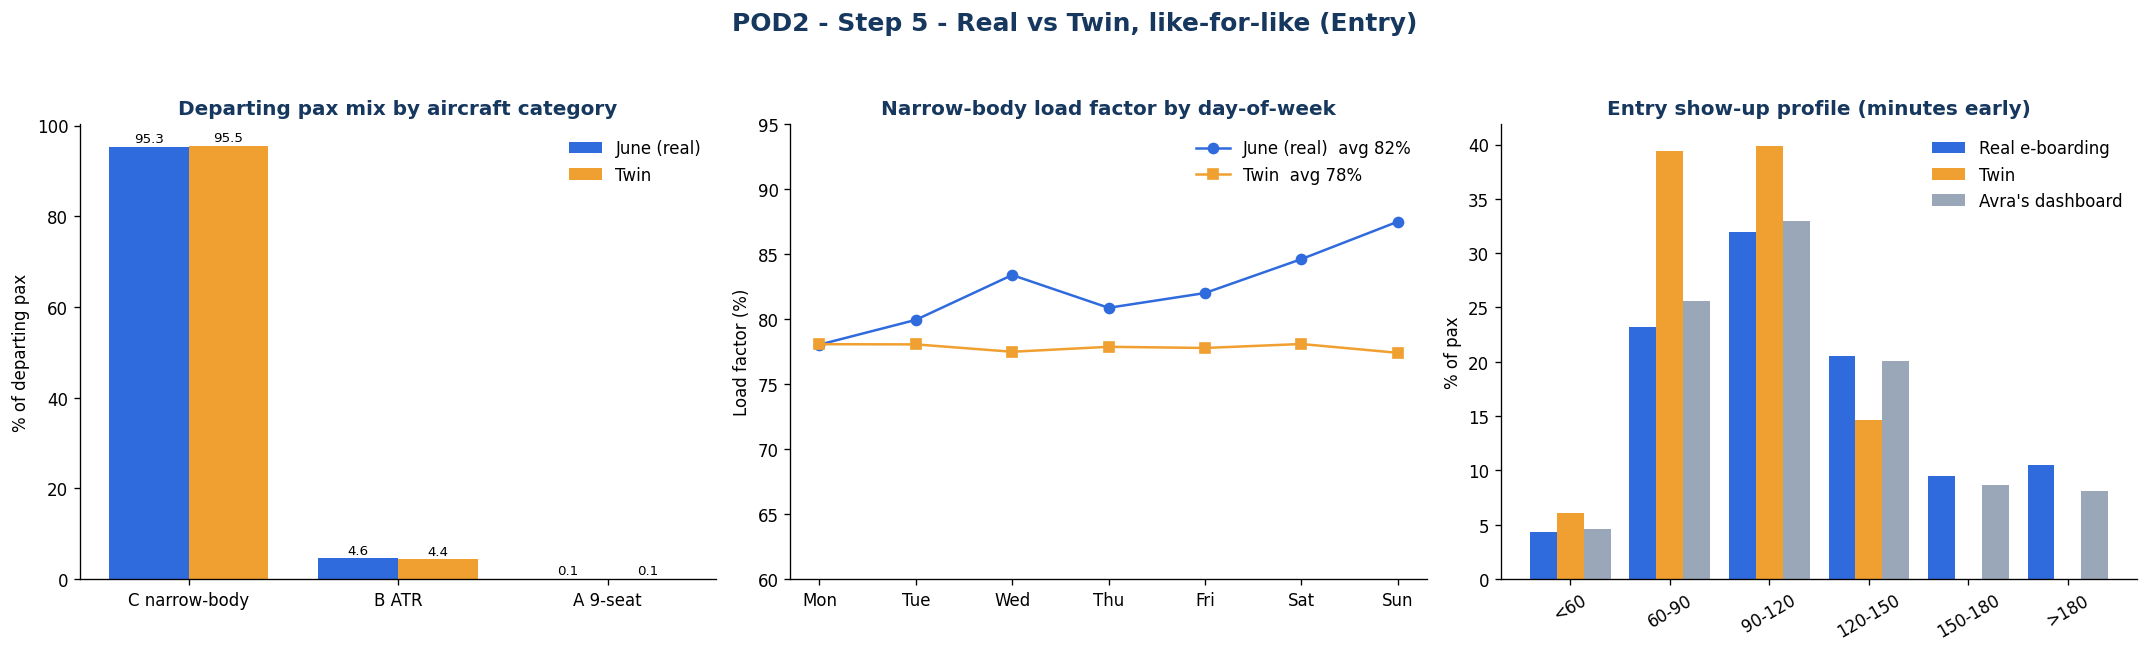
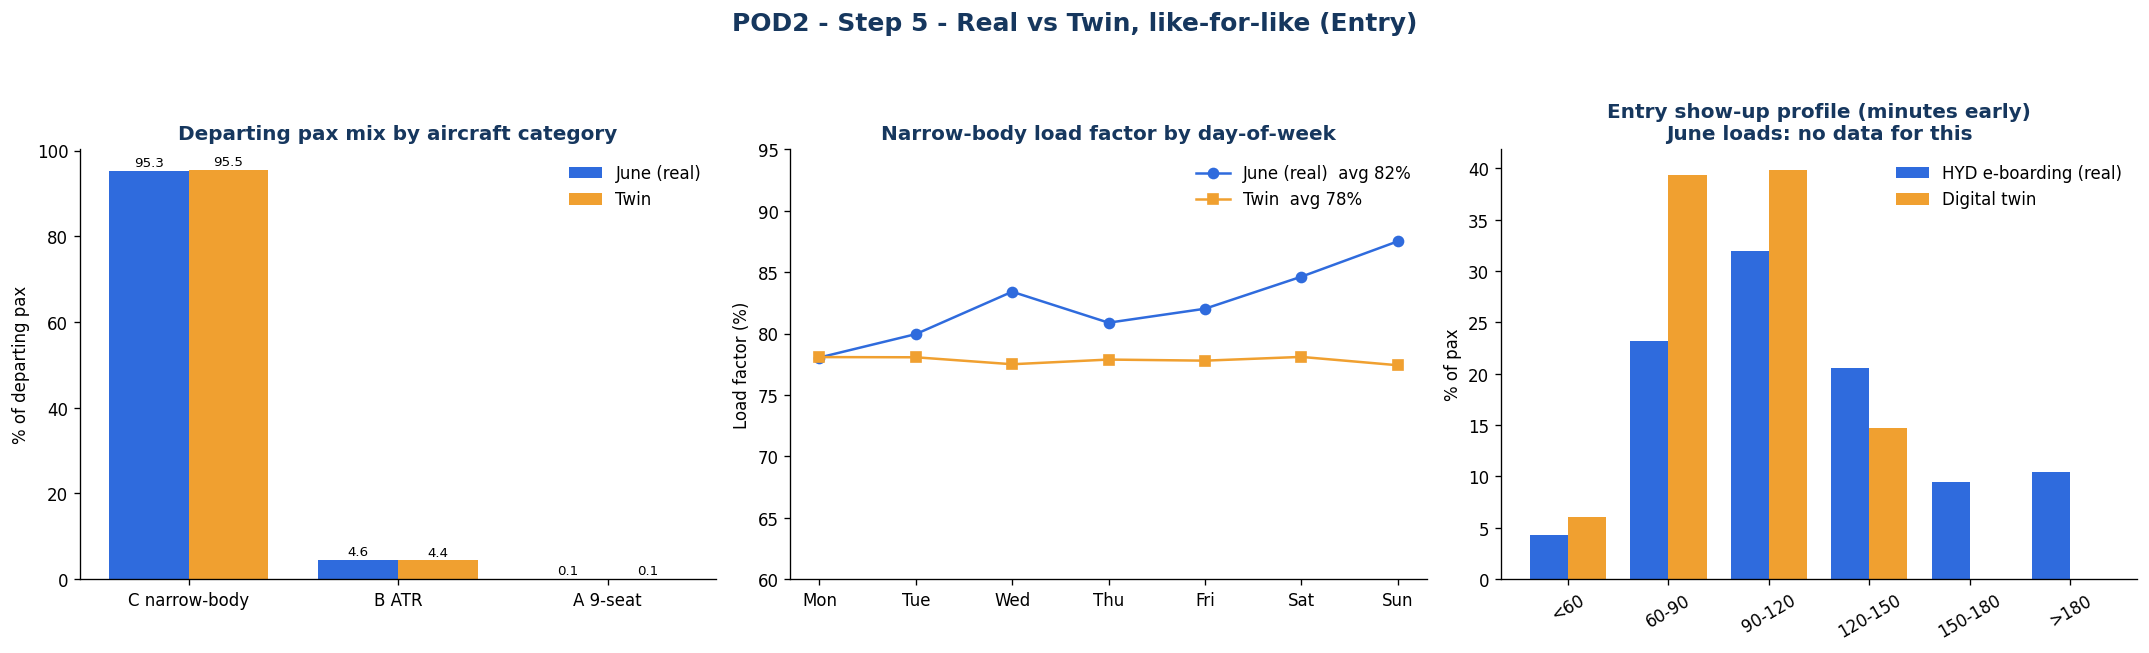
POD2 Step 5 fix: 3-dataset comparison only; June absent from Entry show-up
Two corrections:
- Avra's dashboard is a STYLE template, not a POD dataset - removed it as a
  comparison series. Comparison is strictly June loads / HYD e-boarding / twin.
- June loads has no scan times / per-pax rows / time-of-day, so it cannot join the
  Entry show-up (minutes-early) comparison at all - that comparison is two-way,
  HYD e-boarding (real) vs twin. June only contributes the volume + load-factor input.

Added a "which dataset can speak to which Entry dimension" matrix to COMPARISON.md
and relabelled the show-up panel "June loads: no data for this".

diff --git a/POD2/step5_comparison/compare_datasets.py b/POD2/step5_comparison/compare_datasets.py
@@ -45,7 +45,10 @@ def read_profile(path):
 
 real_prof = read_profile(os.path.join(ROOT, 'step3_ews_eboarding', 'entry_showup_profile.csv'))
 twin_prof = read_profile(os.path.join(ROOT, 'step4_twin_entry', 'twin_entry_showup_profile.csv'))
-avra_prof = {'<60': 4.65, '60-90': 25.59, '90-120': 32.99, '120-150': 20.04, '150-180': 8.63, '>180': 8.11}
+# NOTE: Avra's dashboard is only a STYLE template for how analysis should look - it is
+# NOT a POD dataset, so it is deliberately NOT a comparison series here. The real Entry
+# show-up comparison is two-way: HYD e-boarding (real) vs digital twin (modelled).
+# June loads has no scan times, so it cannot participate in the show-up comparison at all.
 
 
 def june_layers():
@@ -106,14 +109,14 @@ def main():
     ax[1].plot(DOW, [tdow.get(d, 0) for d in DOW], marker='s', color=AMBER, label=f'Twin  avg {tlfC:.0f}%')
     ax[1].set_title('Narrow-body load factor by day-of-week', fontweight='bold', color=DK)
     ax[1].set_ylabel('Load factor (%)'); ax[1].set_ylim(60, 95)
-    ax[1].set_xticklabels([d[:3] for d in DOW]); ax[1].legend(frameon=False)
+    ax[1].set_xticks(range(len(DOW))); ax[1].set_xticklabels([d[:3] for d in DOW]); ax[1].legend(frameon=False)
 
-    # panel 3: show-up profile (real e-boarding vs twin vs Avra)
-    xb = range(len(BUCKETS)); w2 = 0.27
-    ax[2].bar([i - w2 for i in xb], [real_prof[b] for b in BUCKETS], w2, label='Real e-boarding', color=BLUE)
-    ax[2].bar([i for i in xb], [twin_prof[b] for b in BUCKETS], w2, label='Twin', color=AMBER)
-    ax[2].bar([i + w2 for i in xb], [avra_prof[b] for b in BUCKETS], w2, label="Avra's dashboard", color=GREY)
-    ax[2].set_title('Entry show-up profile (minutes early)', fontweight='bold', color=DK)
+    # panel 3: show-up profile - two-way, HYD e-boarding (real) vs twin.
+    # June loads is absent here on purpose: it has no scan times to build a show-up %.
+    xb = range(len(BUCKETS)); w2 = 0.38
+    ax[2].bar([i - w2/2 for i in xb], [real_prof[b] for b in BUCKETS], w2, label='HYD e-boarding (real)', color=BLUE)
+    ax[2].bar([i + w2/2 for i in xb], [twin_prof[b] for b in BUCKETS], w2, label='Digital twin', color=AMBER)
+    ax[2].set_title('Entry show-up profile (minutes early)\nJune loads: no data for this', fontweight='bold', color=DK)
     ax[2].set_xticks(list(xb)); ax[2].set_xticklabels(BUCKETS, rotation=30); ax[2].set_ylabel('% of pax')
     ax[2].legend(frameon=False)
 

diff --git a/POD2/step5_comparison/COMPARISON.md b/POD2/step5_comparison/COMPARISON.md
@@ -1,17 +1,38 @@
 # POD2 · Step 5 — Cross-dataset comparison (Entry) & the formula-column plan
 
-We put the three datasets side by side on the **same** dimensions (see
-`comparison_dashboard.png`, numbers in `comparison_summary.csv`). Avra's construct is
-three layers; each dataset owns one, and the twin is meant to reproduce two of them.
+The comparison is strictly between the three POD datasets: **June loads ↔ HYD
+e-boarding ↔ digital twin** (see `comparison_dashboard.png`, numbers in
+`comparison_summary.csv`).
+
+> **Note:** Avra's dashboard is only a **style template** for how the analysis should
+> *look* — it is not a POD dataset, so it is **not** used as a comparison series
+> anywhere here.
+
+## First, which dataset can even speak to each Entry dimension?
+Not every dataset has the columns for every dimension. For **Entry** specifically:
+
+| Dimension | June loads | HYD e-boarding | Digital twin |
+|---|---|---|---|
+| Passenger volume | ✅ real (daily) | ⚠ real, 2 days only | ✅ modelled |
+| Load factor | ✅ real | ❌ no seat/LF field | ✅ modelled |
+| Aircraft mix | ✅ real | ~ per-flight | ✅ modelled |
+| **Entry show-up profile** (minutes early) | ❌ **none** | ✅ real | ✅ modelled |
+| **Entry hourly demand** | ❌ **none** | ✅ real | ✅ modelled |
+
+**June loads has no terminal-entry scans, no per-passenger rows and no time-of-day** —
+only daily `load_factor` + `pax` by aircraft category. So June **cannot** participate in
+the Entry show-up/timing comparison at all; its only role at Entry is as the upstream
+*volume + load-factor input*. The **Entry show-up comparison is therefore two-way:
+HYD e-boarding (real) vs digital twin (modelled).**
 
 ## What matches, what doesn't
 
-| Layer | Real source | Twin | Verdict |
+| Dimension | Datasets compared | Result | Verdict |
 |---|---|---|---|
-| **Aircraft mix** | June: C 95.3% / B 4.6% / A 0.1% | C 95.5% / B 4.4% / A 0.1% | ✅ **Matches** (within 0.2 pt) |
-| **Load factor (level)** | June narrow-body **82.1%** | **77.8%** | ⚠ Twin ~4 pt low |
-| **Load factor (day-of-week)** | June rises into the weekend (Mon 78 → **Sun 88%**) | flat ~78% all week | ⚠ Twin misses the weekly shape |
-| **Show-up profile** | e-boarding, long tail (20% arrive >150 min early) | triangular, **0%** past 150 min | ⚠ Twin mis-calibrated |
+| **Aircraft mix** | June ↔ Twin | C 95.3 vs 95.5, B 4.6 vs 4.4, A 0.1 vs 0.1 | ✅ **Matches** (≤0.2 pt) |
+| **Load factor (level)** | June ↔ Twin | 82.1% vs **77.8%** | ⚠ Twin ~4 pt low |
+| **Load factor (day-of-week)** | June ↔ Twin | June Mon 78 → **Sun 88%** vs twin flat ~78% | ⚠ Twin misses the weekly shape |
+| **Show-up profile** | HYD ↔ Twin *(June absent — no data)* | HYD tail 20% >150 min vs twin **0%** past 150 | ⚠ Twin mis-calibrated |
 
 **Takeaway:** the twin gets the *fleet/volume* structure right, but two behavioural
 layers — how full flights are through the week, and how early people show up — are

diff --git a/POD2/README.md b/POD2/README.md
@@ -42,12 +42,15 @@ reviewed before moving on.
   recalibrations, and the formula-column plan for Step 6).
 
 ## Step 5 result — the twin matches on fleet, misses on two behaviours
-| Layer | Real | Twin | Verdict |
+Comparison is strictly June loads ↔ HYD e-boarding ↔ twin. (Avra's dashboard is a
+*style template only*, not a dataset — not compared against.) **June has no scan times,
+so it cannot join the Entry show-up comparison — that one is two-way, HYD ↔ twin.**
+| Dimension | Compared | Result | Verdict |
 |---|---|---|---|
-| Aircraft mix (C/B/A) | 95.3 / 4.6 / 0.1 | 95.5 / 4.4 / 0.1 | ✅ matches |
-| Load factor (level) | 82.1% | 77.8% | ⚠ ~4 pt low |
-| Load factor (day-of-week) | Mon 78 → Sun 88% | flat ~78% | ⚠ misses weekly shape |
-| Show-up profile | 20% arrive >150 min early | 0% past 150 | ⚠ mis-calibrated |
+| Aircraft mix (C/B/A) | June ↔ twin | 95.3/4.6/0.1 vs 95.5/4.4/0.1 | ✅ matches |
+| Load factor (level) | June ↔ twin | 82.1% vs 77.8% | ⚠ ~4 pt low |
+| Load factor (day-of-week) | June ↔ twin | Mon 78→Sun 88% vs flat ~78% | ⚠ misses weekly shape |
+| Show-up profile | HYD ↔ twin *(June: no data)* | 20% >150 min vs 0% past 150 | ⚠ mis-calibrated |
 
 Two recalibrations to fold into Step 6: (1) drive Entry from the **measured** e-boarding
 show-up buckets instead of the triangular `DEP_ENTER`; (2) lift load factor to ~82% with
